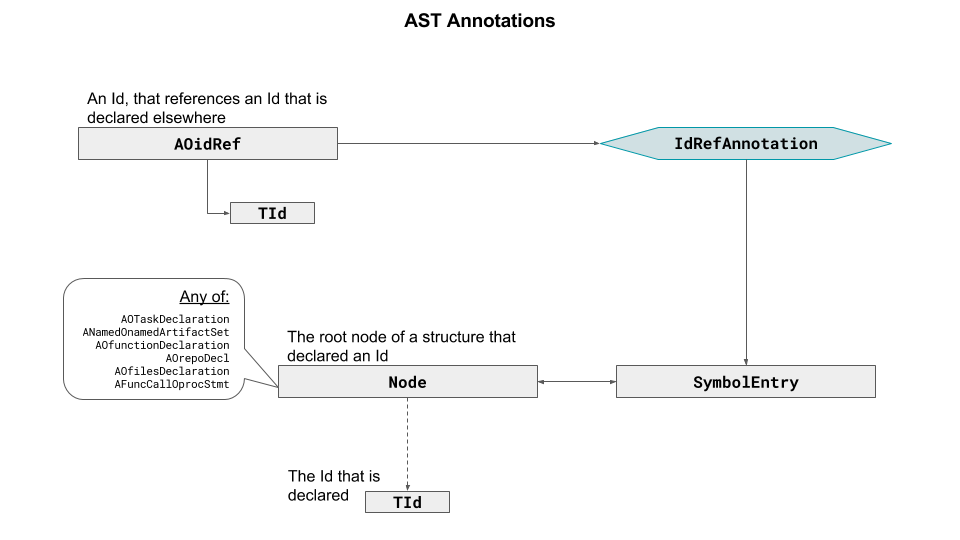
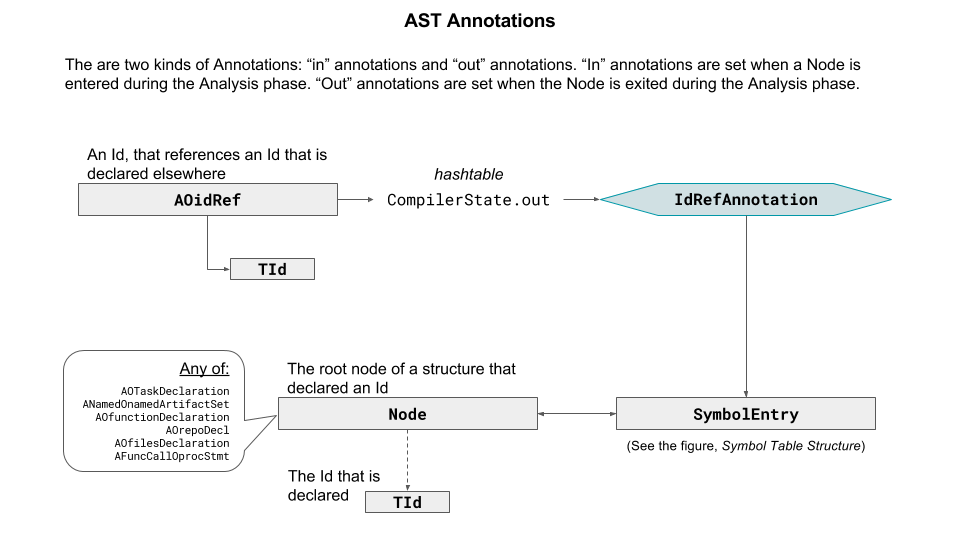
misc

diff --git a/java/scaledmarkets/dabl/main/CompilerState.java b/java/scaledmarkets/dabl/main/CompilerState.java
@@ -17,13 +17,13 @@ public class CompilerState
 	 * AST Node attributes that are set on entry to the Node type's analysis
 	 * method.
 	 */
-	public Hashtable<Node,Object> in = new Hashtable<Node,Object>();
+	public Hashtable<Node,Object> in = new Hashtable<Node, Object>();
 	
 	/**
 	 * AST Node attributes that are set on exit from the Node type's analysis
 	 * method.
 	 */
-	public Hashtable<Node,Object> out = new Hashtable<Node,Object>();
+	public Hashtable<Node,Object> out = new Hashtable<Node, Object>();
 
 	public CompilerState()
 	{

diff --git a/java/scaledmarkets/dabl/main/README.md b/java/scaledmarkets/dabl/main/README.md
@@ -28,6 +28,9 @@ The Language Analyzer annotates the AST, as shown in the figure.
 
 ![Figure 3: AST Annotations](Compiler_Design_Fig3.png "Figure 3: AST Annotations")
 
+Symbols are organized into symbol tables, as depicted in the figure.
+
+![Figure 4: Symbol Table Structure](Compiler_Design_Fig3.png "Figure 4: Symbol Table Structure")
 
 The Language Analyzer uses the following:
 
